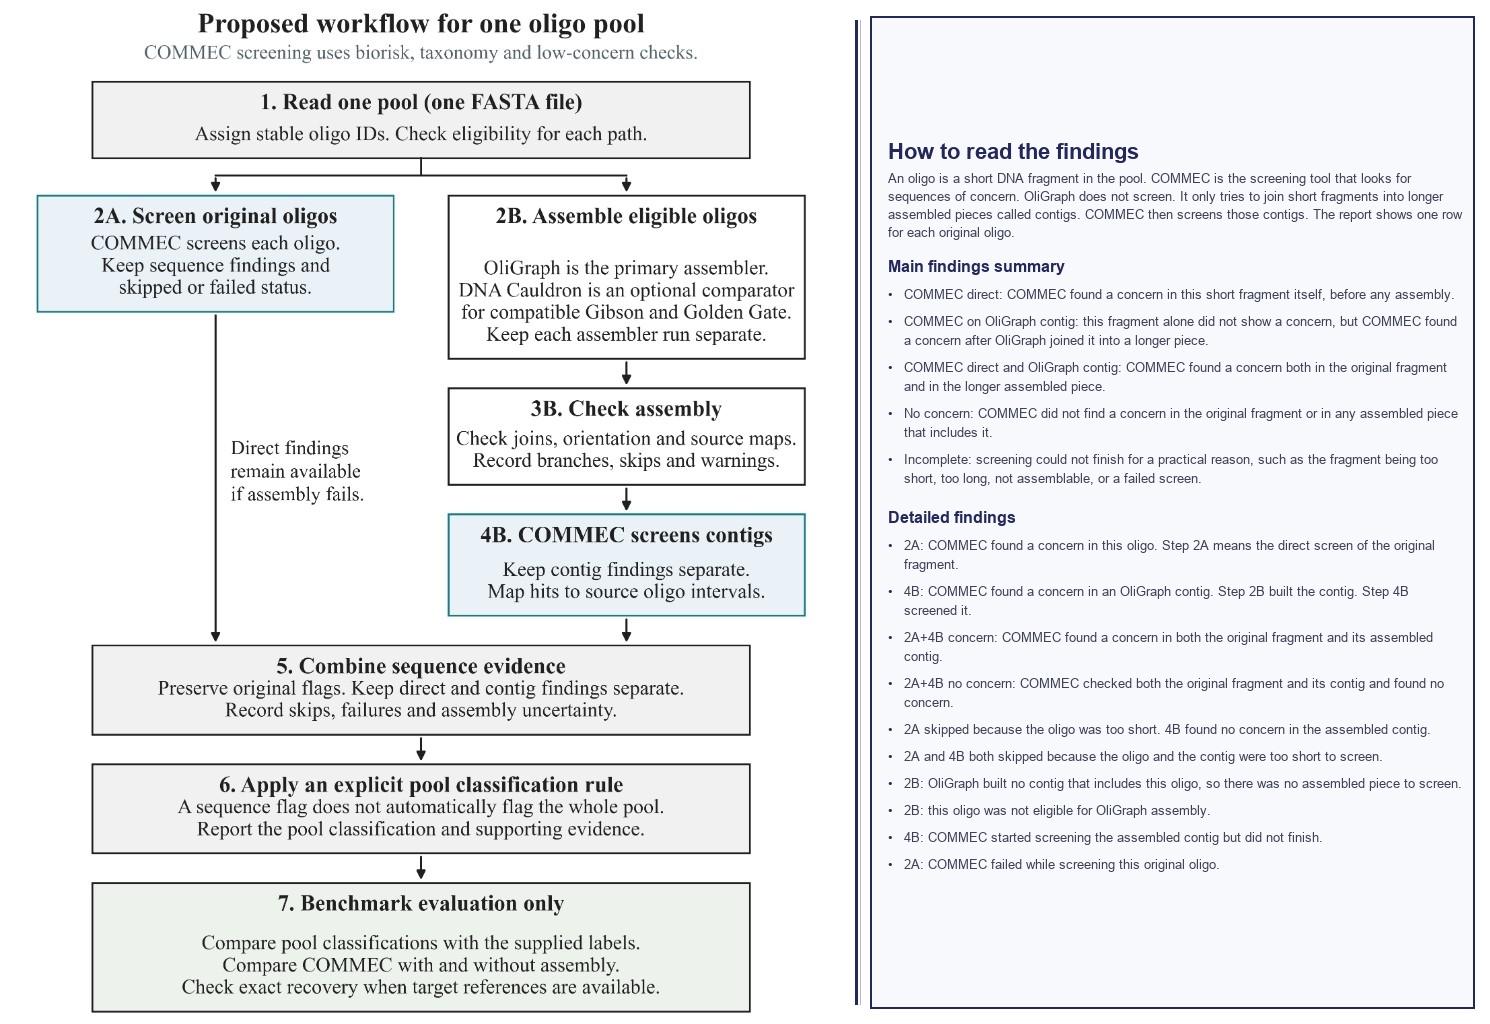
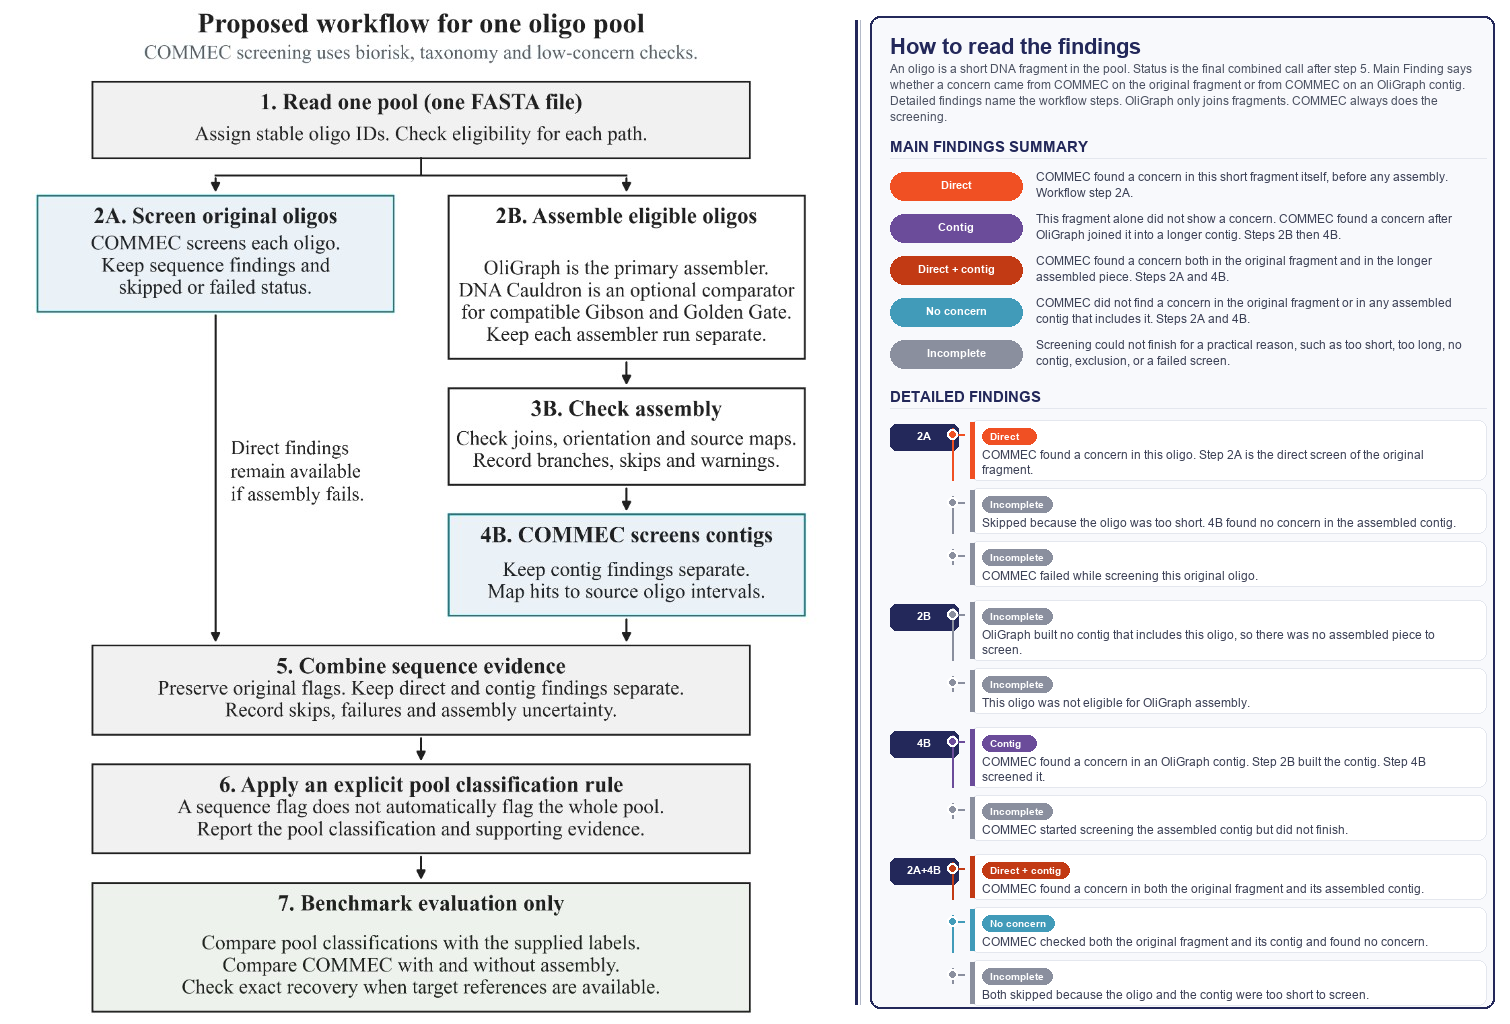
Match workflow figure findings legend to HTML badge colors.
Use the same Main Finding chips and Detailed findings step cards so the PR diagram matches the sample report.

diff --git a/docs/oligo-assembly/make_workflow_figure.py b/docs/oligo-assembly/make_workflow_figure.py
@@ -1,7 +1,8 @@
-"""Annotate the existing workflow figure with a plain-language findings legend.
+"""Annotate the existing workflow figure with HTML-matched findings badges.
 
-Keeps the original flowchart on the left. Places a readable legend on the right
-with a vertical separator. Does not push to GitHub.
+Keeps the original flowchart on the left. Places a legend on the right that uses
+the same Main Finding colors and short badge labels as the HTML report.
+Does not push to GitHub.
 """
 
 from pathlib import Path
@@ -11,6 +12,79 @@ from PIL import Image, ImageDraw, ImageFont
 ROOT = Path(__file__).resolve().parent
 BACKUP = ROOT / "workflow-original-backup.png"
 OUT = ROOT / "workflow.png"
+
+# Match report.js findingMainColor / findingMainBadge.
+MAIN_COLORS = {
+    "COMMEC direct": (240, 80, 35),
+    "COMMEC on OliGraph contig": (107, 76, 154),
+    "COMMEC direct and OliGraph contig": (194, 58, 20),
+    "No concern": (65, 155, 185),
+    "Incomplete": (138, 143, 158),
+}
+MAIN_BADGES = {
+    "COMMEC direct": "Direct",
+    "COMMEC on OliGraph contig": "Contig",
+    "COMMEC direct and OliGraph contig": "Direct + contig",
+    "No concern": "No concern",
+    "Incomplete": "Incomplete",
+}
+
+MAIN_ITEMS = [
+    (
+        "COMMEC direct",
+        "COMMEC found a concern in this short fragment itself, before any assembly. Workflow step 2A.",
+    ),
+    (
+        "COMMEC on OliGraph contig",
+        "This fragment alone did not show a concern. COMMEC found a concern after OliGraph joined it into a longer contig. Steps 2B then 4B.",
+    ),
+    (
+        "COMMEC direct and OliGraph contig",
+        "COMMEC found a concern both in the original fragment and in the longer assembled piece. Steps 2A and 4B.",
+    ),
+    (
+        "No concern",
+        "COMMEC did not find a concern in the original fragment or in any assembled contig that includes it. Steps 2A and 4B.",
+    ),
+    (
+        "Incomplete",
+        "Screening could not finish for a practical reason, such as too short, too long, no contig, exclusion, or a failed screen.",
+    ),
+]
+
+# Detailed findings grouped like the HTML How to read trees.
+DETAIL_GROUPS = [
+    (
+        "2A",
+        [
+            ("COMMEC direct", "COMMEC found a concern in this oligo. Step 2A is the direct screen of the original fragment."),
+            ("Incomplete", "Skipped because the oligo was too short. 4B found no concern in the assembled contig."),
+            ("Incomplete", "COMMEC failed while screening this original oligo."),
+        ],
+    ),
+    (
+        "2B",
+        [
+            ("Incomplete", "OliGraph built no contig that includes this oligo, so there was no assembled piece to screen."),
+            ("Incomplete", "This oligo was not eligible for OliGraph assembly."),
+        ],
+    ),
+    (
+        "4B",
+        [
+            ("COMMEC on OliGraph contig", "COMMEC found a concern in an OliGraph contig. Step 2B built the contig. Step 4B screened it."),
+            ("Incomplete", "COMMEC started screening the assembled contig but did not finish."),
+        ],
+    ),
+    (
+        "2A+4B",
+        [
+            ("COMMEC direct and OliGraph contig", "COMMEC found a concern in both the original fragment and its assembled contig."),
+            ("No concern", "COMMEC checked both the original fragment and its contig and found no concern."),
+            ("Incomplete", "Both skipped because the oligo and the contig were too short to screen."),
+        ],
+    ),
+]
 
 
 def font(size, bold=False):
@@ -41,21 +115,27 @@ def wrap(draw, text, font_obj, max_width):
             current = word
     if current:
         lines.append(current)
-    return lines
+    return lines or [""]
 
 
-def bullet_block(draw, x, y, title, items, title_font, body_font, max_width, gap=8):
-    for line in wrap(draw, title, title_font, max_width):
-        draw.text((x, y), line, fill=(35, 40, 90), font=title_font)
-        y += 24
-    y += 6
-    for item in items:
-        lines = wrap(draw, item, body_font, max_width - 20)
-        draw.text((x, y), "•", fill=(35, 40, 90), font=body_font)
-        for i, line in enumerate(lines):
-            draw.text((x + 16, y + i * 19), line, fill=(60, 65, 86), font=body_font)
-        y += max(1, len(lines)) * 19 + gap
-    return y
+def rounded_rect(draw, box, radius, fill, outline=None, width=1):
+    draw.rounded_rectangle(box, radius=radius, fill=fill, outline=outline, width=width)
+
+
+def draw_badge(draw, x, y, label, color, badge_font, width=132, height=28):
+    rounded_rect(draw, [x, y, x + width, y + height], 999, fill=color)
+    tw = draw.textlength(label, font=badge_font)
+    tx = x + max(4, (width - tw) / 2)
+    ty = y + (height - 14) / 2
+    draw.text((tx, ty), label, fill=(255, 255, 255), font=badge_font)
+    return height
+
+
+def draw_step_pill(draw, x, y, label, pill_font, width=72, height=28):
+    rounded_rect(draw, [x, y, x + width, y + height], 6, fill=(35, 40, 90))
+    tw = draw.textlength(label, font=pill_font)
+    draw.text((x + (width - tw) / 2, y + (height - 13) / 2), label, fill=(255, 255, 255), font=pill_font)
+    return height
 
 
 def main():
@@ -66,116 +146,144 @@ def main():
     left_w, height = base.size
 
     title_f = font(22, bold=True)
-    head_f = font(16, bold=True)
-    body_f = font(13)
-    intro_f = font(13)
+    head_f = font(15, bold=True)
+    body_f = font(12)
+    intro_f = font(12)
+    badge_f = font(11, bold=True)
+    pill_f = font(11, bold=True)
+    mini_f = font(10, bold=True)
 
-    panel_w = 620
+    panel_w = 640
     gap = 28
     sep_x = left_w + gap // 2
     panel_x = left_w + gap
     total_w = left_w + gap + panel_w
+    content_width = panel_w - 44
+    badge_w = 132
 
     intro = (
-        "An oligo is a short DNA fragment in the pool. COMMEC is the screening tool that looks "
-        "for sequences of concern. OliGraph does not screen. It only tries to join short fragments "
-        "into longer assembled pieces called contigs. COMMEC then screens those contigs. The report "
-        "shows one row for each original oligo."
+        "An oligo is a short DNA fragment in the pool. Status is the final combined call after step 5. "
+        "Main Finding says whether a concern came from COMMEC on the original fragment or from COMMEC on "
+        "an OliGraph contig. Detailed findings name the workflow steps. OliGraph only joins fragments. "
+        "COMMEC always does the screening."
     )
-    mains = [
-        "COMMEC direct: COMMEC found a concern in this short fragment itself, before any assembly.",
-        "COMMEC on OliGraph contig: this fragment alone did not show a concern, but COMMEC found a concern after OliGraph joined it into a longer piece.",
-        "COMMEC direct and OliGraph contig: COMMEC found a concern both in the original fragment and in the longer assembled piece.",
-        "No concern: COMMEC did not find a concern in the original fragment or in any assembled piece that includes it.",
-        "Incomplete: screening could not finish for a practical reason, such as the fragment being too short, too long, not assemblable, or a failed screen.",
-    ]
-    details = [
-        "2A: COMMEC found a concern in this oligo. Step 2A means the direct screen of the original fragment.",
-        "4B: COMMEC found a concern in an OliGraph contig. Step 2B built the contig. Step 4B screened it.",
-        "2A+4B concern: COMMEC found a concern in both the original fragment and its assembled contig.",
-        "2A+4B no concern: COMMEC checked both the original fragment and its contig and found no concern.",
-        "2A skipped because the oligo was too short. 4B found no concern in the assembled contig.",
-        "2A and 4B both skipped because the oligo and the contig were too short to screen.",
-        "2B: OliGraph built no contig that includes this oligo, so there was no assembled piece to screen.",
-        "2B: this oligo was not eligible for OliGraph assembly.",
-        "4B: COMMEC started screening the assembled contig but did not finish.",
-        "2A: COMMEC failed while screening this original oligo.",
-    ]
 
-    # Measure content height so the legend can be vertically centered.
+    # Probe content height.
     probe = Image.new("RGBA", (10, 10), (255, 255, 255, 255))
-    probe_draw = ImageDraw.Draw(probe)
-    content_width = panel_w - 40
-    content_h = 0
-    content_h += 32  # title
-    content_h += len(wrap(probe_draw, intro, intro_f, content_width)) * 18
-    content_h += 14
-    content_h += 30  # main heading
-    for item in mains:
-        content_h += max(1, len(wrap(probe_draw, item, body_f, content_width - 20))) * 19 + 8
-    content_h += 10 + 30  # detail heading
-    for item in details:
-        content_h += max(1, len(wrap(probe_draw, item, body_f, content_width - 20))) * 19 + 8
+    pd = ImageDraw.Draw(probe)
+    content_h = 28  # title
+    content_h += len(wrap(pd, intro, intro_f, content_width)) * 16 + 12
+    content_h += 26  # Main heading
+    for _, text in MAIN_ITEMS:
+        lines = wrap(pd, text, body_f, content_width - badge_w - 16)
+        content_h += max(32, len(lines) * 16) + 10
+    content_h += 18 + 26  # Detail heading
+    for _, items in DETAIL_GROUPS:
+        content_h += 8
+        for _, text in items:
+            lines = wrap(pd, text, body_f, content_width - 72 - 28 - 16)
+            content_h += max(40, 18 + len(lines) * 15) + 8
 
-    total_h = max(height, content_h + 48)
+    total_h = max(height, content_h + 56)
     canvas = Image.new("RGBA", (total_w, total_h), (255, 255, 255, 255))
-    # Center the flowchart vertically if the legend is taller.
     top = max(0, (total_h - height) // 2)
     canvas.paste(base, (0, top))
     draw = ImageDraw.Draw(canvas)
 
-    # Vertical separator between flowchart and legend.
     draw.line([(sep_x, 20), (sep_x, total_h - 20)], fill=(35, 40, 90), width=3)
     draw.line([(sep_x + 4, 20), (sep_x + 4, total_h - 20)], fill=(180, 186, 200), width=1)
 
-    # Legend panel border.
     panel_top = 16
     panel_bottom = total_h - 16
-    draw.rectangle(
+    rounded_rect(
+        draw,
         [panel_x, panel_top, total_w - 16, panel_bottom],
+        10,
         fill=(248, 249, 252, 255),
         outline=(35, 40, 90, 255),
         width=2,
     )
 
-    x = panel_x + 18
-    max_w = content_width
-    panel_inner_h = panel_bottom - panel_top
-    y = panel_top + max(12, (panel_inner_h - content_h) // 2)
-
+    x = panel_x + 20
+    y = panel_top + 18
     draw.text((x, y), "How to read the findings", fill=(35, 40, 90), font=title_f)
-    y += 32
-    for line in wrap(draw, intro, intro_f, max_w):
-        draw.text((x, y), line, fill=(60, 65, 86), font=intro_f)
-        y += 18
+    y += 28
+    for line in wrap(draw, intro, intro_f, content_width):
+        draw.text((x, y), line, fill=(76, 82, 98), font=intro_f)
+        y += 16
+    y += 12
 
-    y += 14
-    y = bullet_block(
-        draw,
-        x,
-        y,
-        "Main findings summary",
-        mains,
-        head_f,
-        body_f,
-        max_w,
-        gap=8,
-    )
-    y += 10
-    bullet_block(
-        draw,
-        x,
-        y,
-        "Detailed findings",
-        details,
-        head_f,
-        body_f,
-        max_w,
-        gap=8,
-    )
+    # Cap style section title with underline.
+    draw.text((x, y), "MAIN FINDINGS SUMMARY", fill=(35, 40, 90), font=head_f)
+    y += 20
+    draw.line([(x, y), (x + content_width, y)], fill=(228, 231, 238), width=1)
+    y += 12
+
+    for main, text in MAIN_ITEMS:
+        color = MAIN_COLORS[main]
+        label = MAIN_BADGES[main]
+        text_x = x + badge_w + 14
+        lines = wrap(draw, text, body_f, content_width - badge_w - 16)
+        block_h = max(32, len(lines) * 16)
+        draw_badge(draw, x, y + max(0, (block_h - 28) // 2), label, color, badge_f, width=badge_w)
+        ty = y + max(0, (block_h - len(lines) * 16) // 2)
+        for line in lines:
+            draw.text((text_x, ty), line, fill=(60, 65, 86), font=body_f)
+            ty += 16
+        y += block_h + 10
+
+    y += 8
+    draw.text((x, y), "DETAILED FINDINGS", fill=(35, 40, 90), font=head_f)
+    y += 20
+    draw.line([(x, y), (x + content_width, y)], fill=(228, 231, 238), width=1)
+    y += 12
+
+    for step, items in DETAIL_GROUPS:
+        # Step label column + branch cards.
+        group_top = y
+        step_x = x
+        card_x = x + 80
+        card_w = content_width - 80
+        for idx, (main, text) in enumerate(items):
+            color = MAIN_COLORS[main]
+            short = MAIN_BADGES[main]
+            lines = wrap(draw, text, body_f, card_w - 24)
+            card_h = 18 + max(1, len(lines)) * 15 + 12
+            # Tree rail.
+            rail_x = card_x - 18
+            is_last = idx == len(items) - 1
+            if idx == 0:
+                draw_step_pill(draw, step_x, y + 4, step, pill_f, width=68, height=26)
+            # vertical rail
+            rail_top = y + 8
+            rail_bottom = y + card_h - (card_h // 2 if is_last else 0)
+            draw.line([(rail_x, rail_top), (rail_x, rail_bottom)], fill=color + (180,), width=2)
+            draw.line([(rail_x, y + 14), (rail_x + 12, y + 14)], fill=color + (180,), width=2)
+            draw.ellipse([rail_x - 5, y + 9, rail_x + 5, y + 19], fill=color, outline=(255, 255, 255), width=2)
+
+            # Card with colored left border.
+            rounded_rect(
+                draw,
+                [card_x, y, card_x + card_w, y + card_h],
+                8,
+                fill=(255, 255, 255, 255),
+                outline=(228, 231, 238, 255),
+                width=1,
+            )
+            draw.rectangle([card_x, y + 2, card_x + 4, y + card_h - 2], fill=color)
+            # Mini badge pill
+            bw = max(54, int(draw.textlength(short, font=mini_f) + 16))
+            rounded_rect(draw, [card_x + 12, y + 8, card_x + 12 + bw, y + 24], 999, fill=color)
+            draw.text((card_x + 20, y + 10), short, fill=(255, 255, 255), font=mini_f)
+            ty = y + 28
+            for line in lines:
+                draw.text((card_x + 12, ty), line, fill=(60, 65, 86), font=body_f)
+                ty += 15
+            y += card_h + 8
+        y = max(y, group_top + 36) + 6
 
     canvas.convert("RGB").save(OUT, format="PNG", optimize=True)
-    print(f"Wrote side-by-side annotated workflow to {OUT} ({total_w}x{total_h})")
+    print(f"Wrote HTML-matched findings legend to {OUT} ({total_w}x{total_h})")
 
 
 if __name__ == "__main__":
